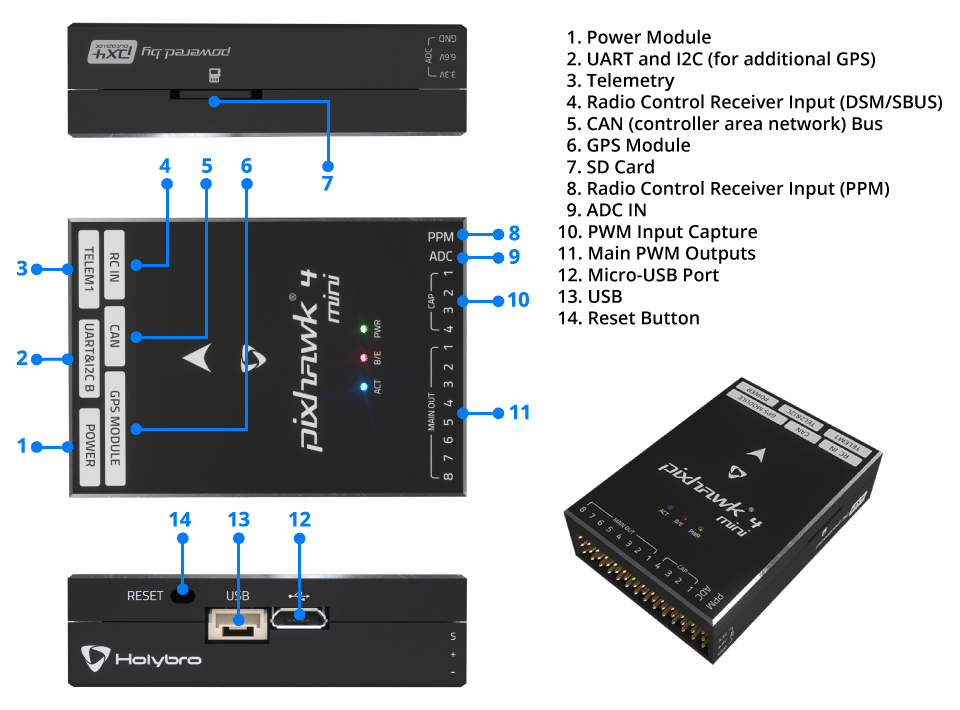
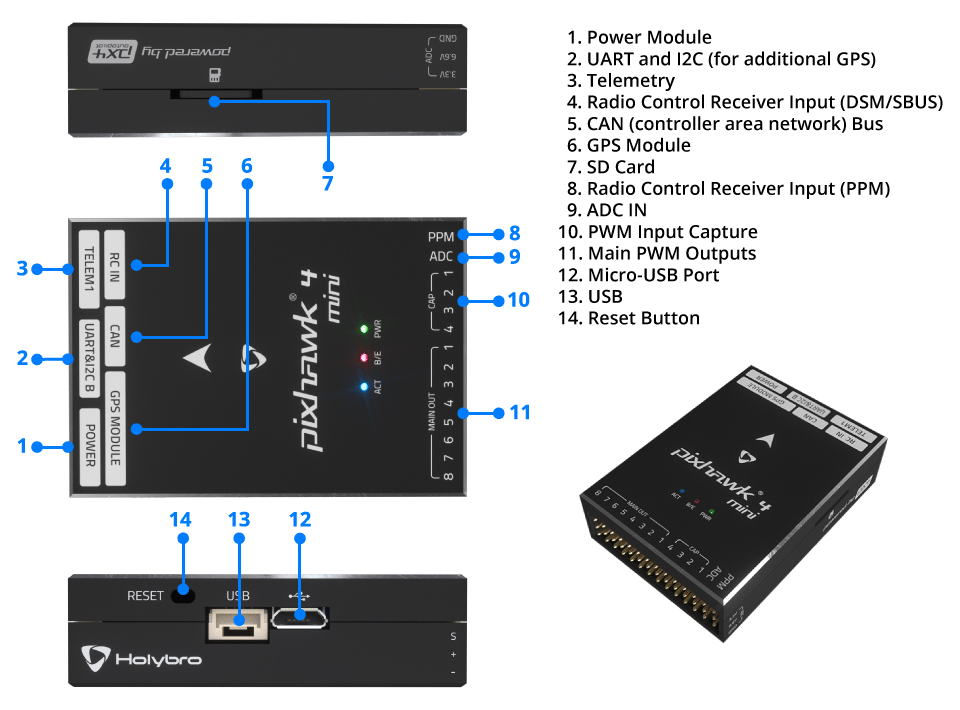
Pixhawk4 Mini fixes (#398)
* fixes UART label on 3d render in Interfaces image
* add Pixhawk 4 Mini purchase link

diff --git a/en/flight_controller/pixhawk4_mini.md b/en/flight_controller/pixhawk4_mini.md
@@ -40,8 +40,8 @@ The *Pixhawk<sup>&reg;</sup> 4 Mini* autopilot is designed for engineers and hob
 Additional information can be found in the [*Pixhawk 4 Mini* Technical Data Sheet](https://github.com/PX4/px4_user_guide/raw/master/assets/flight_controller/pixhawk4mini/pixhawk4mini_technical_data_sheet.pdf).
 
 ## Purchase
-Available soon.
-<!-- Order from [Holybro](https://shop.holybro.com/). -->
+
+Order from [Holybro](https://shop.holybro.com/pixhawk4-mini_p1120.html).
 
 ## Interfaces
 
